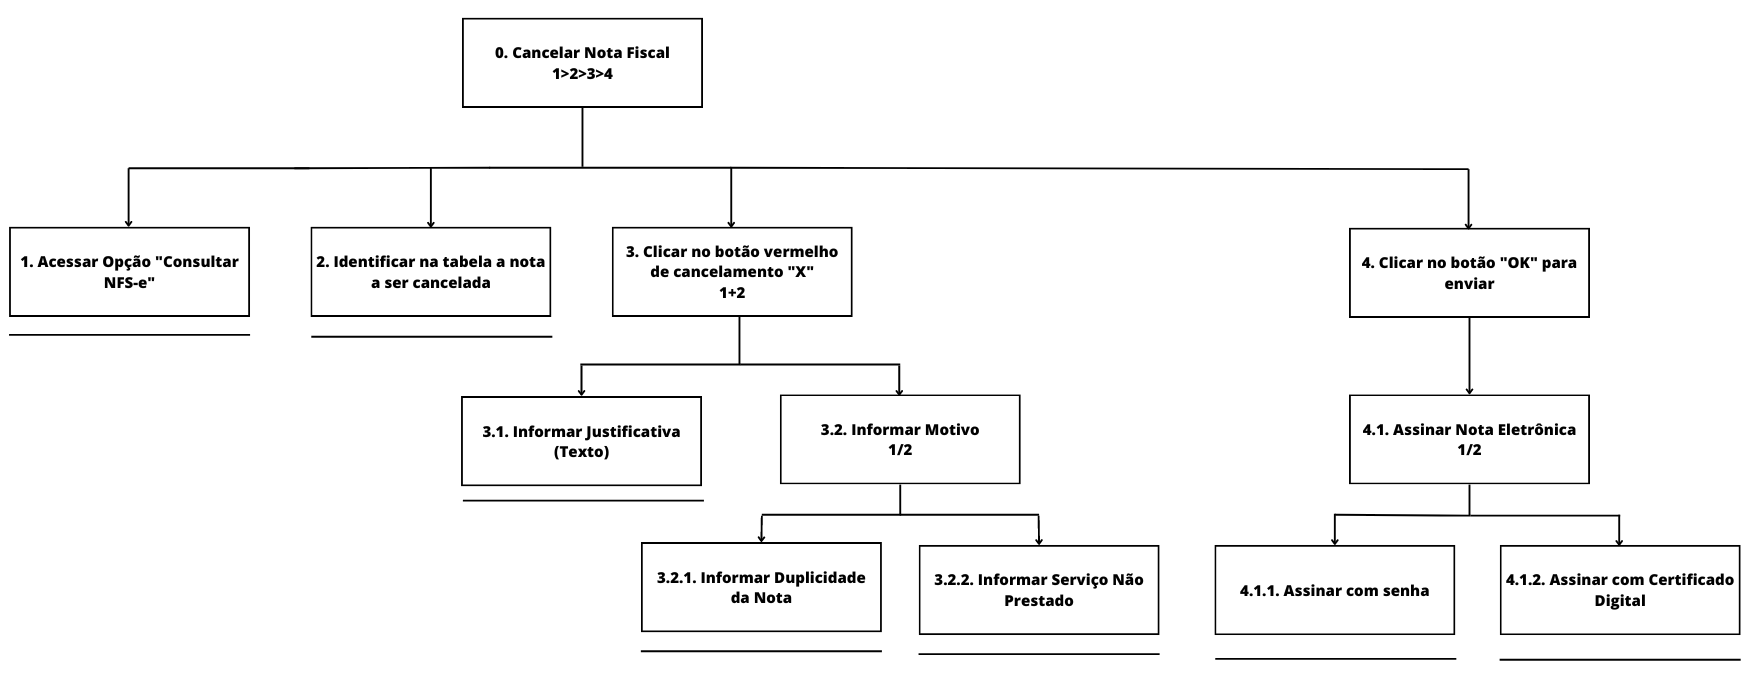
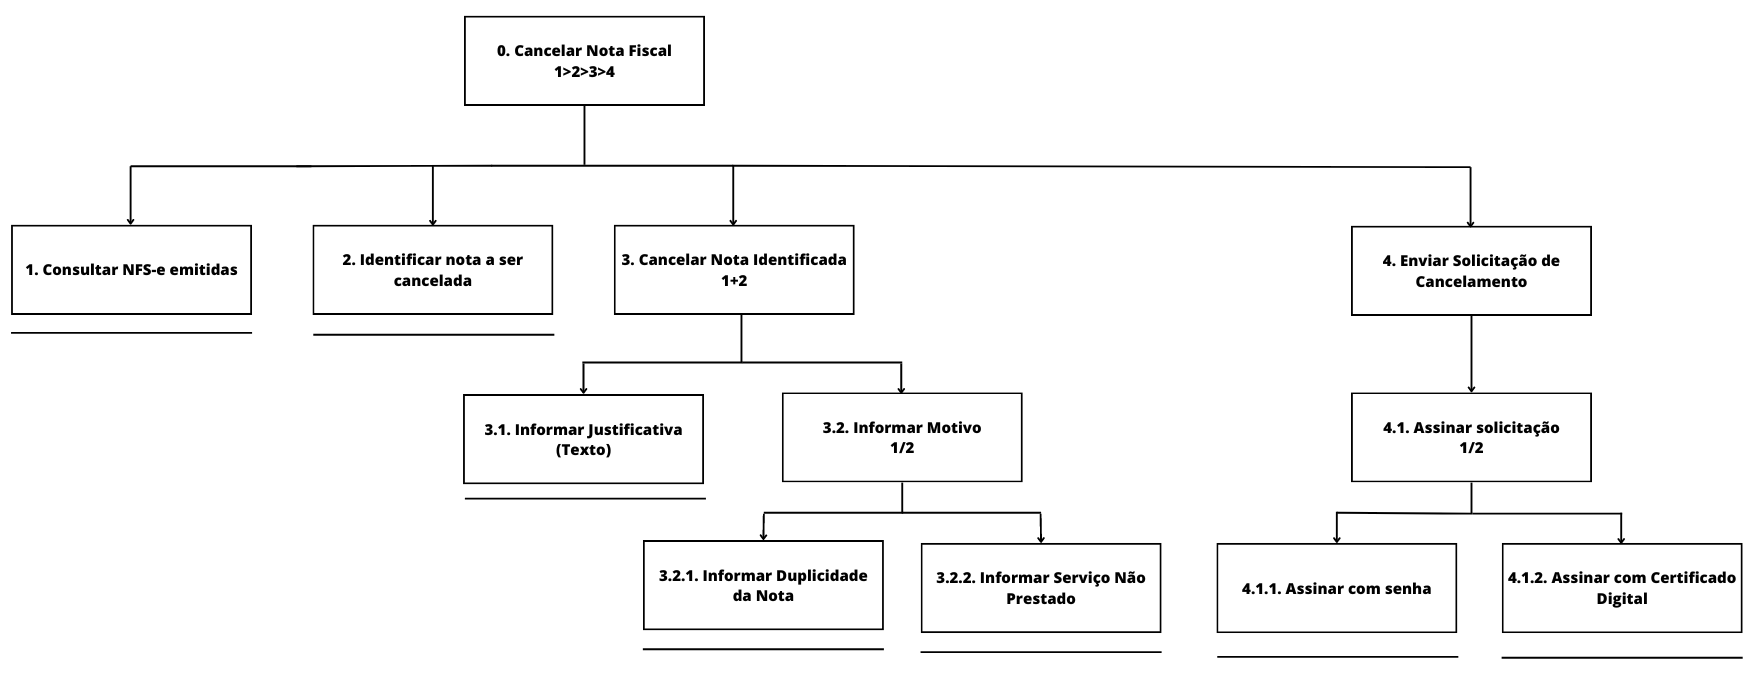
Corrige HTA cancelar nota

diff --git a/gitpages/docs/analise_de_requisitos/analise_de_tarefas.md b/gitpages/docs/analise_de_requisitos/analise_de_tarefas.md
@@ -88,16 +88,16 @@ A análise da tarefa de cancelar a nota fiscal está representada na tabela 2 e 
 
 |Objetivos/Operações| Problemas e recomendações|
 | - | - |
-|0. Cancelar Nota Fiscal 1>2>3>4| **input:** nota a ser cancelada, com justificativa, motivo e assinatura<br> **feedback:** mensagem de registro gravado<br> **plano:** consultar tabela, em seguida identificar a nota a ser cancelada, informar justificativa e motivo (duplicidade da nota ou serviço não prestado), clicar em "OK" para enviar e assinar nota eletrônica (senha ou certificado digital)|
-|1. Acessar Opção "Consultar" NFS-e||
-|2. Identificar na tabela a nota a ser cancelada ||
-|3. Clicar no botão vermelho de cancelamento "X" 1>2 |**plano:** informar a justificativa por texto e informar o motivo|
+|0. Cancelar Nota Fiscal 1>2>3>4| **input:** nota a ser cancelada, com justificativa, motivo e assinatura<br> **feedback:** mensagem de registro gravado<br> **plano:** consultar tabela, em seguida identificar a nota a ser cancelada, informar justificativa e motivo (duplicidade da nota ou serviço não prestado), enviar e assinar solicitação (senha ou certificado digital)|
+|1. Consultar NFS-e emitidas||
+|2. Identificar nota a ser cancelada ||
+|3. Cancelar Nota Identificada 1>2 |**plano:** informar a justificativa por texto e informar o motivo|
 |3.1. Informar justificativa (texto) ||
 |3.2. Informar Motivo 1/2|**input:** seleção entre duplicidade da nota ou serviço não prestado|
 |3.2.1 Informar duplicidade de nota||
 |3.2.2 Informar serviço não prestado||
-|4. Clicar no botão "OK" para enviar|**input:** assinatura da nota eletrônica|
-|4.1 Assinar nota Eletrônica 1/2|**plano:** assinar nota eletrônica por meio de senha ou certificado digital|
+|4. Enviar solicitação de cancelamento|**input:** assinatura da solicitação |
+|4.1 Assinar solicitação 1/2|**plano:** assinar solicitação por meio de senha ou certificado digital|
 |4.1.1. Assinar com senha||
 |4.1.2. Assinar com certificado digital||
 
